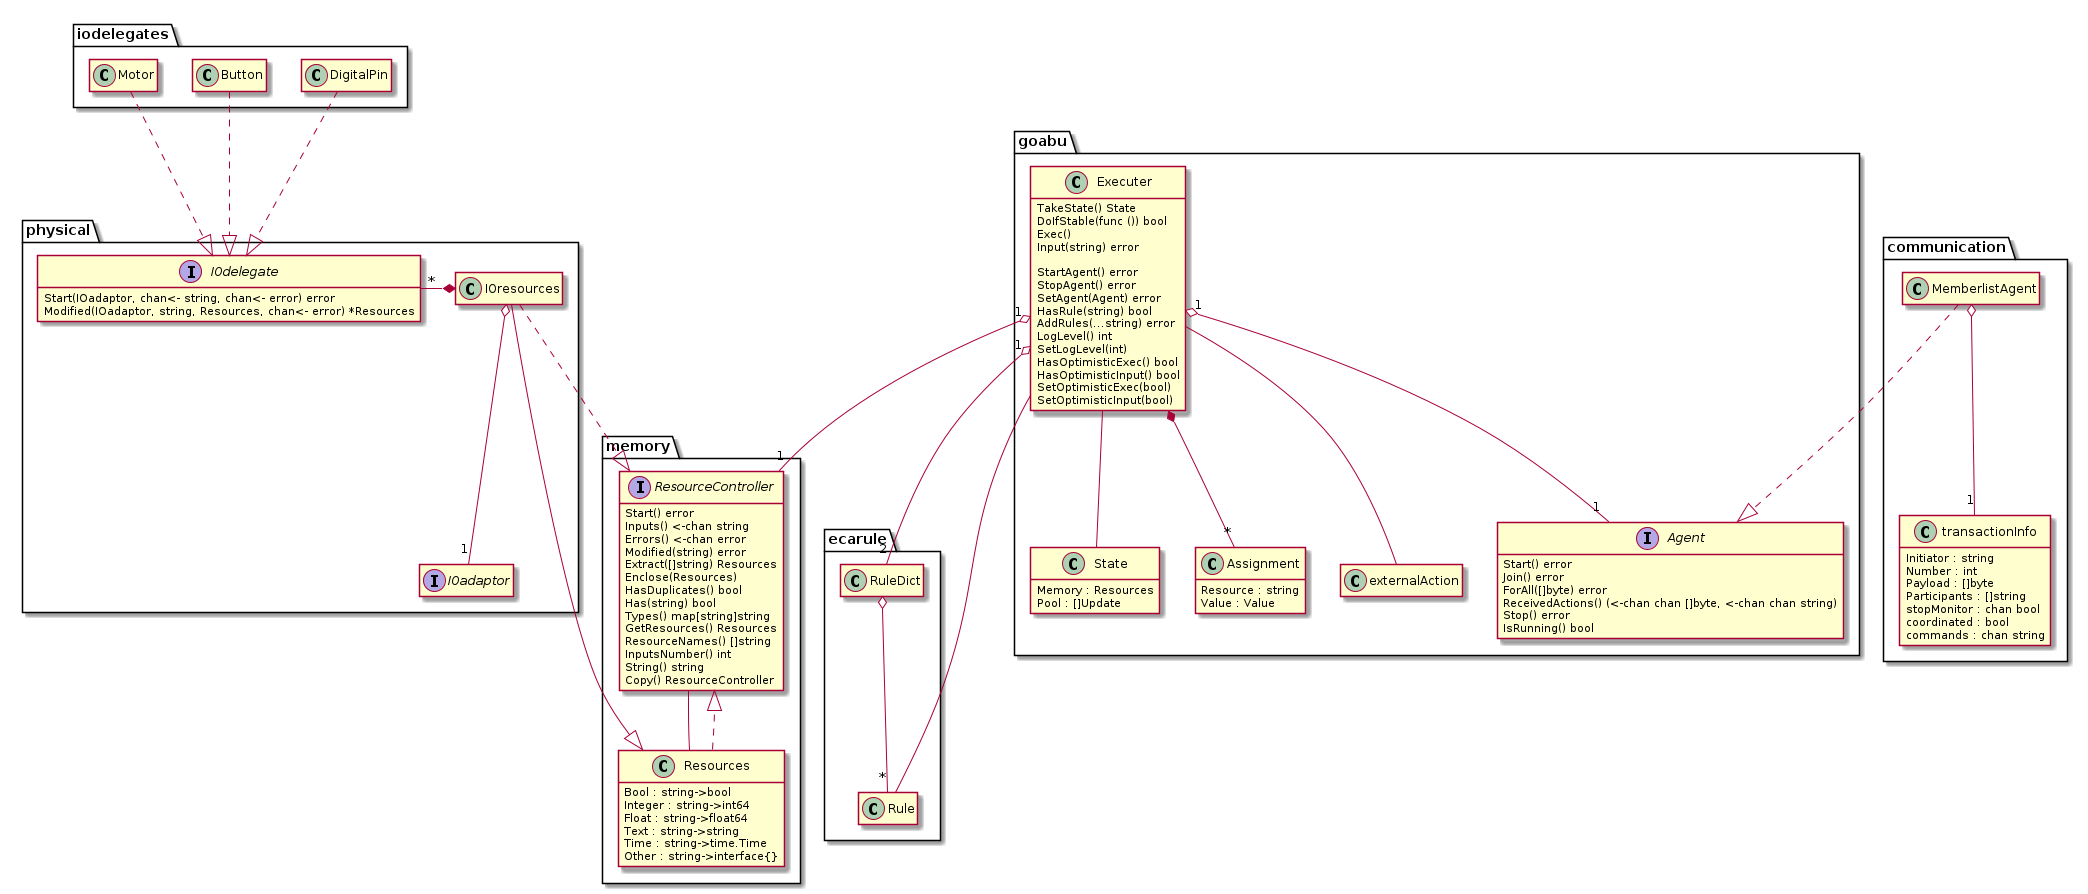
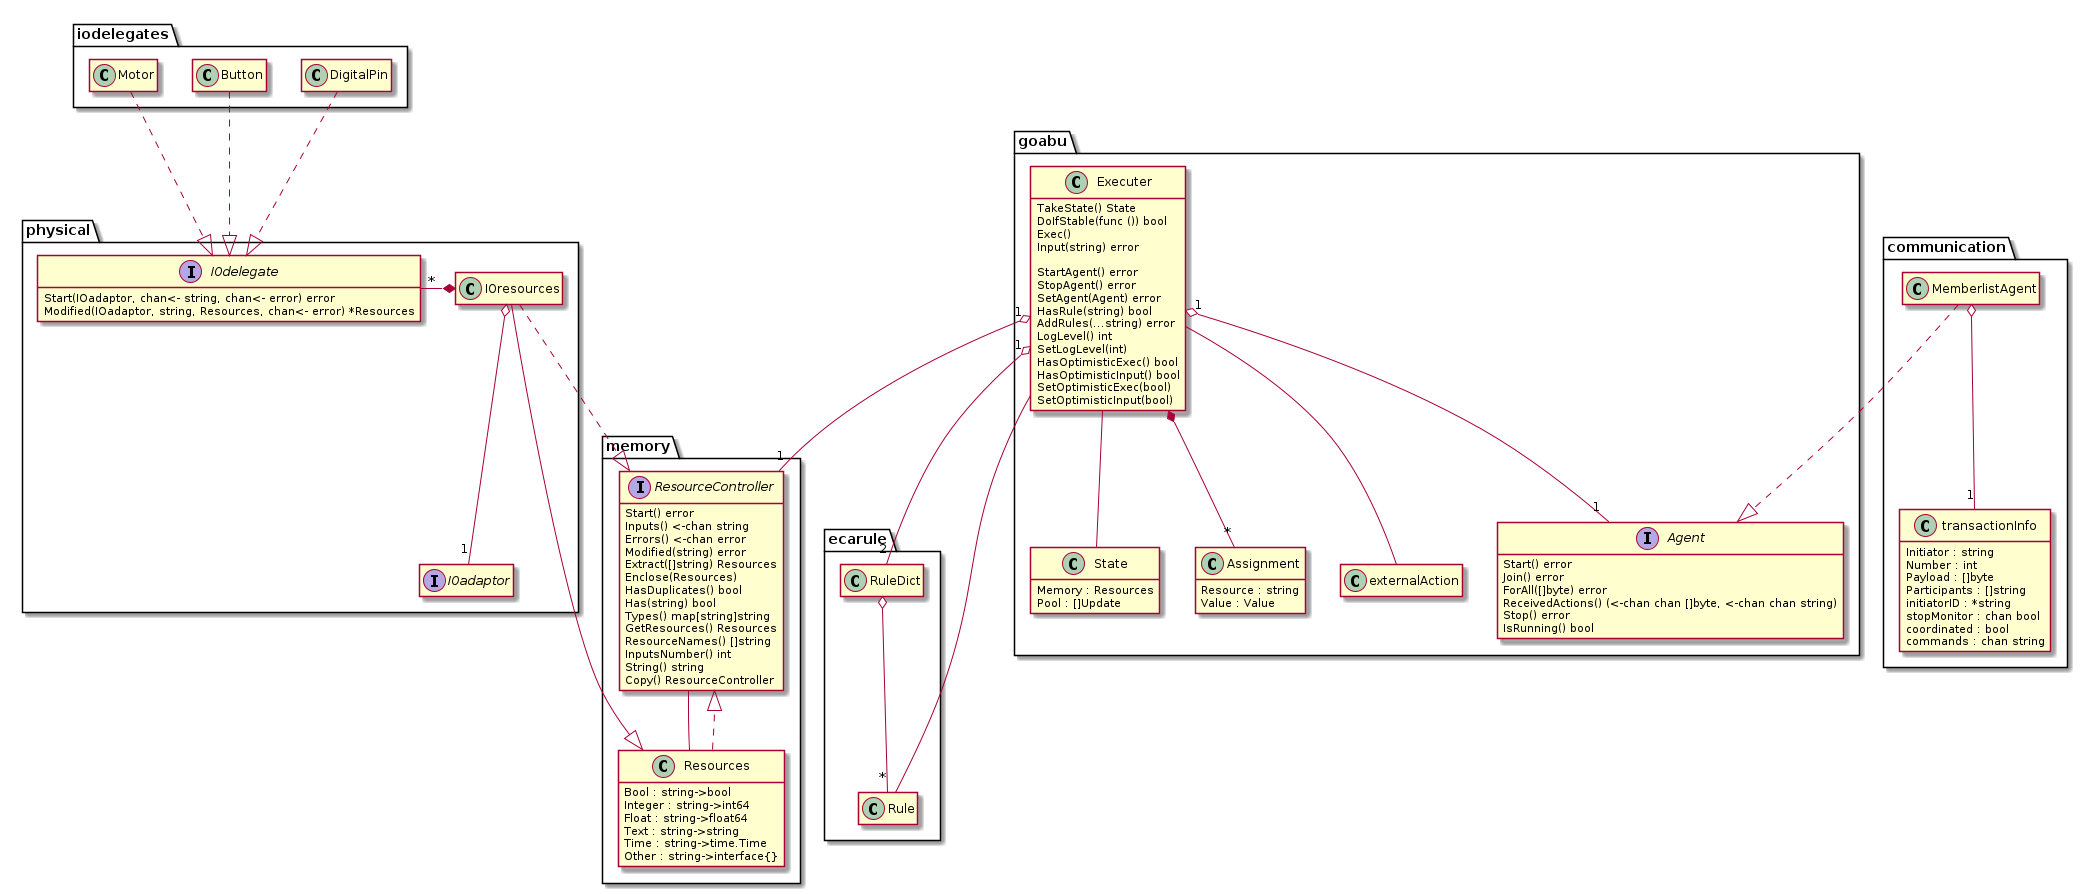
Use agent ids instead of memberlist's names in log messages

Changed region(s): [[0.9028, 0.5436, 0.9962, 0.755]]

diff --git a/communication/memberlistTransactions.go b/communication/memberlistTransactions.go
@@ -20,14 +20,22 @@ const (
 	timeoutWakeMonitor = 12000
 )
 
+// agentID returns the agent id of node.
+func agentID(node *memberlist.Node) string {
+	return string(node.Meta)
+}
+
 type transactionInfo struct {
 	Initiator    string
 	Number       int
 	Payload      []byte
 	Participants []string
-	stopMonitor  chan bool
-	coordinated  bool
-	commands     chan string
+
+	// initiatorID possibly points to the agent id of the initiator or is nil.
+	initiatorID *string
+	stopMonitor chan bool
+	coordinated bool
+	commands    chan string
 }
 
 func (t *transactionInfo) id() string {
@@ -214,12 +222,12 @@ func (a *MemberlistAgent) coordinateTransaction(tran transactionInfo) error {
 	a.coordinatedChannels <- channelsCh
 	channelsCh <- channels
 	a.logger.Debug("Started transaction",
-		zap.String("subj", canCommit.Sender.Name),
+		zap.String("subj", a.id),
 		zap.String("act", "start_tran"),
 		zap.Int("participants", receivers.Size()))
 	res := a.firstPhase(receivers, msg, channels)
 	a.logger.Debug("Terminated first phase",
-		zap.String("subj", canCommit.Sender.Name),
+		zap.String("subj", a.id),
 		zap.String("act", "end_1_phase"),
 		zap.Int("participants", receivers.Size()))
 	a.testsHaltIf(TestsAfterFirst)
@@ -248,7 +256,7 @@ func (a *MemberlistAgent) coordinateTransaction(tran transactionInfo) error {
 		Initiator: tran.Initiator,
 		Number:    tran.Number,
 	}
-	a.logger.Debug("Terminated transaction", zap.String("subj", a.list.LocalNode().Name), zap.String("act", "end_tran"))
+	a.logger.Debug("Terminated transaction", zap.String("subj", a.id), zap.String("act", "end_tran"))
 	return res
 }
 
@@ -401,7 +409,7 @@ func demuxResponses(coordinated <-chan chan transactionChannels, responses <-cha
 				logger.Debug("Transaction already terminated: discarding response",
 					zap.String("act", "discard"),
 					zap.String("obj", "transaction response"),
-					zap.String("from", response.Sender.Name))
+					zap.String("from", agentID(response.Sender)))
 				break
 			}
 			c := channels.line(response.Type)
@@ -410,12 +418,12 @@ func demuxResponses(coordinated <-chan chan transactionChannels, responses <-cha
 				logger.Debug("Received: "+response.Type,
 					zap.String("act", "recv"),
 					zap.String("obj", response.Type),
-					zap.String("from", response.Sender.Name))
+					zap.String("from", agentID(response.Sender)))
 			default:
 				logger.Warn("Discarded interested status",
 					zap.String("act", "discard"),
 					zap.String("obj", response.Type),
-					zap.String("from", response.Sender.Name))
+					zap.String("from", agentID(response.Sender)))
 			}
 		}
 	}
@@ -490,6 +498,13 @@ func (a *MemberlistAgent) handleTransactions() {
 						}
 					}(*tran)
 					tran.commands = commandsCh
+					for _, member := range a.list.Members() {
+						if member.Name == tran.Initiator {
+							agtID := agentID(member)
+							tran.initiatorID = &agtID
+							break
+						}
+					}
 					a.transactions[id] = tran
 					respond = false
 				case "interested", "not_interested":
@@ -500,16 +515,16 @@ func (a *MemberlistAgent) handleTransactions() {
 
 			case "can_commit?":
 				a.logger.Debug("Received: can_commit?",
-					zap.String("subj", a.list.LocalNode().Name),
+					zap.String("subj", a.id),
 					zap.String("act", "recv"),
 					zap.String("obj", "can_commit?"),
-					zap.String("from", message.Sender.Name))
+					zap.String("from", agentID(message.Sender)))
 				switch status {
 				case "not_interested", "evaluating":
 					a.logger.Panic("Received can_commit? but I am evaluating or I wasn't interested",
 						zap.String("act", "recv"),
 						zap.String("obj", "can_commit?"),
-						zap.String("from", message.Sender.Name))
+						zap.String("from", agentID(message.Sender)))
 				case "interested":
 					if a.test == TestsAbort {
 						a.abort(id)
@@ -532,10 +547,10 @@ func (a *MemberlistAgent) handleTransactions() {
 
 			case "do_abort":
 				a.logger.Debug("Received: do_abort",
-					zap.String("subj", a.list.LocalNode().Name),
+					zap.String("subj", a.id),
 					zap.String("act", "recv"),
 					zap.String("obj", "do_abort"),
-					zap.String("from", message.Sender.Name))
+					zap.String("from", agentID(message.Sender)))
 				switch status {
 				case "evaluating":
 					select {
@@ -547,7 +562,7 @@ func (a *MemberlistAgent) handleTransactions() {
 					a.logger.Panic("Received do_abort for a committed, new or uninteresting transaction",
 						zap.String("act", "recv"),
 						zap.String("obj", "do_abort"),
-						zap.String("from", message.Sender.Name))
+						zap.String("from", agentID(message.Sender)))
 				case "prepared", "interested":
 					a.abort(id)
 				}
@@ -555,10 +570,10 @@ func (a *MemberlistAgent) handleTransactions() {
 
 			case "do_commit":
 				a.logger.Debug("Received: do_commit",
-					zap.String("subj", a.list.LocalNode().Name),
+					zap.String("subj", a.id),
 					zap.String("act", "recv"),
 					zap.String("obj", "do_commit"),
-					zap.String("from", message.Sender.Name))
+					zap.String("from", agentID(message.Sender)))
 				switch status {
 				case "prepared":
 					a.commit(id)
@@ -567,7 +582,7 @@ func (a *MemberlistAgent) handleTransactions() {
 					a.logger.Panic("Spurious do_commit",
 						zap.String("act", "recv"),
 						zap.String("obj", "do_commit"),
-						zap.String("from", message.Sender.Name))
+						zap.String("from", agentID(message.Sender)))
 				}
 				response.Type = "committed"
 
@@ -577,7 +592,7 @@ func (a *MemberlistAgent) handleTransactions() {
 					a.logger.Panic("Received get_decision for a new, evaluating or uninteresting transaction",
 						zap.String("act", "recv"),
 						zap.String("obj", "get_decision"),
-						zap.String("from", message.Sender.Name))
+						zap.String("from", agentID(message.Sender)))
 				case "interested", "prepared":
 					respond = false
 					tran := a.transactions[id]
@@ -593,9 +608,9 @@ func (a *MemberlistAgent) handleTransactions() {
 					}
 					if status == "interested" {
 						a.logger.Debug("Aborting: I was interested but initiator is dead",
-							zap.String("subj", a.list.LocalNode().Name),
+							zap.String("subj", a.id),
 							zap.String("act", "abort_tran"),
-							zap.String("initiator", tran.Initiator))
+							zap.Stringp("initiator", tran.initiatorID))
 						a.abort(id)
 						break
 					}
@@ -616,9 +631,9 @@ func (a *MemberlistAgent) handleTransactions() {
 					head := tran.Participants[0]
 					if head == a.list.LocalNode().Name {
 						a.logger.Debug("Initiator is dead: becoming new coordinator",
-							zap.String("subj", head),
+							zap.String("subj", a.id),
 							zap.String("act", "coord"),
-							zap.String("initiator", tran.Initiator))
+							zap.Stringp("initiator", tran.initiatorID))
 						go a.coordinateTransaction(*tran)
 						tran.coordinated = true
 						break
@@ -639,10 +654,10 @@ func (a *MemberlistAgent) handleTransactions() {
 						response.Type = "do_commit"
 					}
 					a.logger.Debug("Received get_decision, responding: "+response.Type,
-						zap.String("subj", a.list.LocalNode().Name),
+						zap.String("subj", a.id),
 						zap.String("act", "send"),
 						zap.String("obj", response.Type),
-						zap.String("to", message.Sender.Name))
+						zap.String("to", agentID(message.Sender)))
 				}
 
 			default:
@@ -650,7 +665,7 @@ func (a *MemberlistAgent) handleTransactions() {
 				a.logger.DPanic("Unsupported transaction message: "+message.Type,
 					zap.String("act", "recv"),
 					zap.String("obj", `"`+message.Type+`"`),
-					zap.String("from", message.Sender.Name))
+					zap.String("from", agentID(message.Sender)))
 			}
 
 			if respond {

diff --git a/communication/delegateAdapter.go b/communication/delegateAdapter.go
@@ -86,7 +86,7 @@ func (d delegateAdapter) NotifyMsg(m []byte) {
 				d.members.Logger.Warn("Dicarded transaction response",
 					zap.String("act", "discard"),
 					zap.String("obj", "transaction response"),
-					zap.String("from", message.Sender.Name))
+					zap.String("from", agentID(message.Sender)))
 			}
 			return
 		case "interested?", "can_commit?", "do_commit", "do_abort", "get_decision":
@@ -96,7 +96,7 @@ func (d delegateAdapter) NotifyMsg(m []byte) {
 				d.members.Logger.Warn("Dicarded incoming transaction message",
 					zap.String("act", "discard"),
 					zap.String("obj", "transaction message"),
-					zap.String("from", message.Sender.Name))
+					zap.String("from", agentID(message.Sender)))
 			}
 			return
 		}
@@ -159,6 +159,8 @@ func (d delegateAdapter) NotifyJoin(node *memberlist.Node) {
 	d.delegate.NotifyJoin(d.delegateMembers(), node)
 }
 
+// NotifyLeave implements memberlist.EventDelegate.NotifyLeave.
+// If the agent is still running it calls the delegate's NotifyLeave.
 func (d delegateAdapter) NotifyLeave(node *memberlist.Node) {
 	group, err := d.register()
 	if err != nil {
@@ -166,11 +168,6 @@ func (d delegateAdapter) NotifyLeave(node *memberlist.Node) {
 		return
 	}
 	defer group.Done()
-
-	d.members.Logger.Info("Node "+node.Name+" has left",
-		zap.String("act", "leave"),
-		zap.String("subj", node.Name))
-	defer d.members.Logger.Sync()
 
 	d.delegate.NotifyLeave(d.delegateMembers(), node)
 }

diff --git a/communication/delegateDefault.go b/communication/delegateDefault.go
@@ -1,6 +1,8 @@
 package communication
 
 import (
+	"fmt"
+
 	"github.com/hashicorp/memberlist"
 	"go.uber.org/zap"
 )
@@ -40,6 +42,10 @@ func (d delegateDefault) MergeRemoteState(b BaseMembers, buf []byte, join bool) 
 
 func (d delegateDefault) NotifyJoin(b BaseMembers, node *memberlist.Node) {}
 
-func (d delegateDefault) NotifyLeave(b BaseMembers, node *memberlist.Node) {}
+func (d delegateDefault) NotifyLeave(b BaseMembers, node *memberlist.Node) {
+	b.Logger.Info(fmt.Sprintf("Agent \"%s\" has left", agentID(node)),
+		zap.String("act", "leave"),
+		zap.String("subj", agentID(node)))
+}
 
 func (d delegateDefault) NotifyUpdate(b BaseMembers, node *memberlist.Node) {}

diff --git a/communication/memberlistAgent.go b/communication/memberlistAgent.go
@@ -281,7 +281,7 @@ func (a *MemberlistAgent) Stop() error {
 	a.quitGossip <- replyCh
 	<-replyCh
 	a.logStopped("gossip handling")
-	a.logger.Info("Stopped agent", zap.String("act", "stop"), zap.String("obj", a.config.Name))
+	a.logger.Info("Stopped agent", zap.String("act", "stop"), zap.String("subj", a.id))
 	a.logger.Sync()
 
 	// preserve delegate
